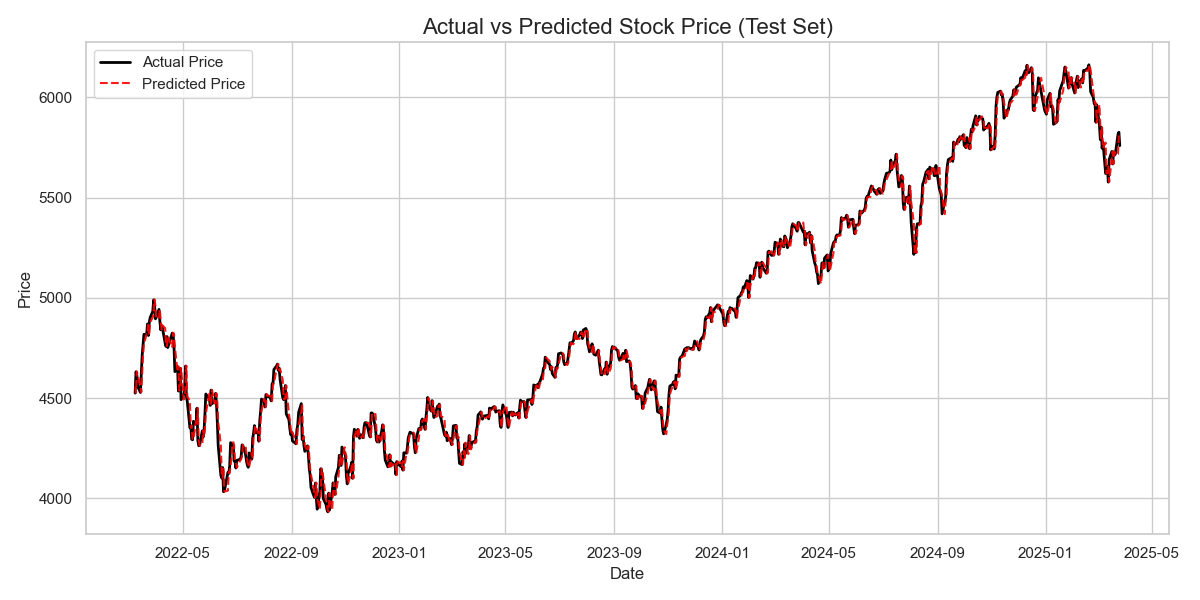
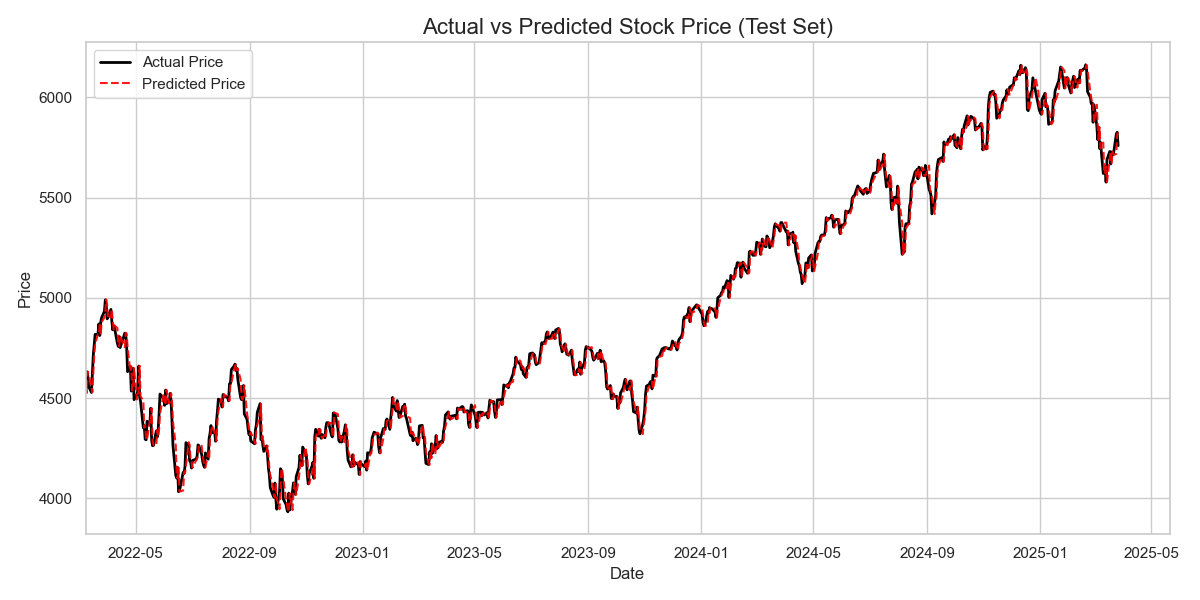
refactor: final commit

diff --git a/backend/eda.py b/backend/eda.py
@@ -8,16 +8,15 @@ from preprocessing import load_and_process_data
 def generate_eda_plots():
     print("Generating EDA Plots...")
     
-    # 1. Setup Directories
+   
     base_dir = os.path.dirname(os.path.abspath(__file__))
     plots_dir = os.path.join(base_dir, 'plots')
     models_dir = os.path.join(base_dir, 'models')
     os.makedirs(plots_dir, exist_ok=True)
     
-    # 2. Load Data
+   
     df = load_and_process_data()
     
-    # Load Test Results for Predicted vs Actual
     results_path = os.path.join(models_dir, 'test_results.csv')
     if os.path.exists(results_path):
         test_results = pd.read_csv(results_path)
@@ -25,10 +24,10 @@ def generate_eda_plots():
         print("Warning: test_results.csv not found. Skipping Predicted vs Actual plot.")
         test_results = None
 
-    # Set Style
+
     sns.set_theme(style="whitegrid")
     
-    # --- PLOT 1: Actual vs Predicted Price (The "Hero" Chart) ---
+    # PLOT 1: Actual vs Predicted Price 
     if test_results is not None:
         plt.figure(figsize=(12, 6))
         plt.plot(pd.to_datetime(test_results['Date']), test_results['Actual_Price'], label='Actual Price', color='black', linewidth=2)
@@ -36,14 +35,18 @@ def generate_eda_plots():
         plt.title('Actual vs Predicted Stock Price (Test Set)', fontsize=16)
         plt.xlabel('Date')
         plt.ylabel('Price')
+        
+        
+        plt.xlim(left=pd.to_datetime(test_results['Date']).min())
+        
         plt.legend()
         plt.tight_layout()
         plt.savefig(os.path.join(plots_dir, '1_Actual_vs_Predicted.png'))
         plt.close()
         print("Saved: 1_Actual_vs_Predicted.png")
 
-    # --- PLOT 2: Dual Axis - Price vs Data (Visualizing the Inverse Correlation) ---
-    # Downsample for readability if needed, but let's take the last 500 points
+    # PLOT 2: Dual Axis - Price vs Data (Visualizing the Inverse Correlation) 
+    
     subset = df.iloc[-500:]
     
     fig, ax1 = plt.subplots(figsize=(12, 6))
@@ -67,7 +70,7 @@ def generate_eda_plots():
     plt.close()
     print("Saved: 2_Price_vs_Data_DualAxis.png")
 
-    # --- PLOT 3: Scatter Plot - Data Level vs Price ---
+    # PLOT 3: Scatter Plot - Data Level vs Price 
     plt.figure(figsize=(10, 6))
     sns.scatterplot(x='Data', y='Price', data=df, alpha=0.5, color='purple')
     plt.title('Correlation: Data Level vs Stock Price', fontsize=16)
@@ -84,7 +87,7 @@ def generate_eda_plots():
     plt.close()
     print("Saved: 3_Scatter_Data_vs_Price.png")
 
-    # --- PLOT 4: Correlation Heatmap ---
+    # PLOT 4: Correlation Heatmap 
     plt.figure(figsize=(8, 6))
     corr_matrix = df[['Price', 'Data_Lag1', 'Data_Diff', 'Price_Diff']].corr()
     sns.heatmap(corr_matrix, annot=True, cmap='coolwarm', fmt=".2f", linewidths=.5)
@@ -94,10 +97,10 @@ def generate_eda_plots():
     plt.close()
     print("Saved: 4_Correlation_Heatmap.png")
 
-    # --- STATISTICS OUTPUT ---
+    # STATISTICS OUTPUT 
     print("\n--- Model Insights ---")
     
-    # Calculate Correlation
+
     corr = df['Price'].corr(df['Data_Lag1'])
     print(f"Correlation between Price and Data_Lag1: {corr:.4f}")
     if corr < -0.5:

diff --git a/backend/train_model.py b/backend/train_model.py
@@ -3,7 +3,7 @@ import numpy as np
 from sklearn.linear_model import LinearRegression
 from sklearn.preprocessing import StandardScaler
 from sklearn.metrics import mean_squared_error, r2_score
-import joblib
+
 import os
 from preprocessing import load_and_process_data
 
@@ -48,23 +48,55 @@ def train():
     
     print(f"Model Trained. MSE: {mse:.4f}, R2: {r2:.4f}, Directional Acc: {directional_accuracy:.2f}%")
     
-    # Save Model and Artifacts
+    # Save Evaluation Metrics
     base_dir = os.path.dirname(os.path.abspath(__file__))
     models_dir = os.path.join(base_dir, 'models')
     os.makedirs(models_dir, exist_ok=True)
     
-    joblib.dump(model, os.path.join(models_dir, 'linear_regression_model.joblib'))
-    joblib.dump(scaler, os.path.join(models_dir, 'scaler.joblib'))
-    
     import json
-    evaluation_metrics = {
+    
+    
+    insights = []
+    insights.append(f"Model explains {r2*100:.1f}% of the variance in stock prices.")
+    
+
+    lag_coef = model.coef_[0]
+    diff_coef = model.coef_[1]
+    
+    if abs(diff_coef) > abs(lag_coef):
+         insights.append("Day-to-day changes in data have a stronger impact than the raw value level.")
+    else:
+         insights.append("The raw level of the data is a stronger predictor than recent changes.")
+         
+    if diff_coef > 0:
+        insights.append("Positive changes in the data signal correlate with higher stock prices (positive correlation).")
+    else:
+        insights.append("Positive changes in the data signal tend to pull the stock price down (negative correlation).")
+        
+    metrics = {
         "mse": mse,
         "r2": r2,
         "directional_accuracy": directional_accuracy
     }
     
+    
+    coef_list = []
+    for feat, coef in zip(features, model.coef_):
+        item = {"Feature": feat, "Coefficient": coef}
+        if feat == 'Data_Lag1':
+            item['Explanation'] = "Absolute Level (Gravity Effect) - Higher rates typically push prices down"
+        elif feat == 'Data_Diff':
+            item['Explanation'] = "Rate of Change (Momentum) - Immediate changes add pressure"
+        coef_list.append(item)
+            
+    output = {
+        "metrics": metrics,
+        "insights": insights,
+        "coefficients": coef_list
+    }
+    
     with open(os.path.join(models_dir, 'evaluation.json'), 'w') as f:
-        json.dump(evaluation_metrics, f)
+        json.dump(output, f, indent=4)
 
     test_results = X_test.copy()
     test_results['Actual_Price'] = y_actual_price

diff --git a/backend/preprocessing.py b/backend/preprocessing.py
@@ -52,19 +52,4 @@ def load_and_process_data(data_path='../data/Data.csv', price_path='../data/Stoc
 
     return df
 
-if __name__ == "__main__":
-    # Test execution
-    try:
-        df = load_and_process_data()
-        print("Data processed successfully.")
-        print(f"Shape: {df.shape}")
-        print("\nFirst 5 rows:")
-        print(df.head())
-        print("\nLast 5 rows:")
-        print(df.tail())
-        
-        
-        df.to_csv("debug_processed_data.csv", index=False)
-        print("\nSaved debug_processed_data.csv")
-    except Exception as e:
-        print(f"Error during processing: {e}")
+

diff --git a/README.md b/README.md
@@ -1,9 +1,9 @@
 # Lagged Price Forecast
 
 ## Approach and Assumptions
-This project implements a Time-Series Forecasting model to predict daily `StockPrice`. The core assumption is that the stock price is primarily driven by the "Data" variable (e.g., Interest Rates or Bond Yields), specifically its previous day's value and immediate rate of change.
+This project implements a **Time-Series Forecasting** approach to predict daily `StockPrice` using a **Linear Regression** model. The core assumption is that the stock price is primarily driven by the "Data" variable, specifically its previous day's value and immediate rate of change.
 
-We assume a **non-stationary** relationship where the absolute level of `Data` shifts over time (regimes). To handle this, the model predicts the **Day-to-Day Price Change** (Price[t] - Price[t-1]) rather than the absolute price. The final forecasted price is reconstructed by adding the predicted change to the previous known price.
+We assume a **non-stationary** relationship where the absolute level of `Data` shifts over time. To handle this, the model predicts the **Day-to-Day Price Change** (Price[t] - Price[t-1]) rather than the absolute price. The final forecasted price is reconstructed by adding the predicted change to the previous known price.
 
 ## Data Preprocessing Steps
 The data pipeline (`backend/preprocessing.py`) performs the following operations:
@@ -16,7 +16,7 @@ The data pipeline (`backend/preprocessing.py`) performs the following operations
     *   Calculates `Price_Diff` (Price[t] - Price[t-1]) to create a stationary target variable for training.
 
 ## Model Selection and Evaluation
-A **Linear Regression** model was selected for its interpretability and ability to capture the inverse correlation between the independent variable and the asset price.
+A **Linear Regression** model was selected for its interpretability and ability to capture the inverse correlation between the independent variable and the stock price.
 
 *   **Training Split**: Time-based split (80% Train, 20% Test) to strictly prevent future data leakage.
 *   **Scaling**: Standard Scaler is applied to normalize features (z-score normalization).
@@ -28,22 +28,29 @@ A **Linear Regression** model was selected for its interpretability and ability 
 *   **Mean Squared Error (MSE)**: **2343.98** - Average squared deviation of the predicted price from actual.
 *   **Directional Accuracy**: **47.3%** - The model captures the magnitude/trend accurately but struggles with daily noise directionality.
 
+
+
 ## Key Insights and Conclusions
 Automated analysis of the model coefficients reveals:
 1.  **Primary Driver**: The **Absolute Level** of the "Data" variable is the strongest predictor.
-2.  **Negative Correlation**: Both the absolute level (`Coef: -0.35`) and the rate of change (`Coef: -0.18`) have a negative impact on price. This suggests that as the "Data" variable (e.g., Interest Rates) rises, the Stock Price falls.
+2.  **Negative Correlation**: Both the absolute level (`Coef: -0.35`) and the rate of change (`Coef: -0.18`) have a negative impact on the stock price. This suggests that as the "Data" variable rises, the Stock Price falls.
 3.  **Regime Handling**: By modeling price *differences*, the system successfully adapts to new execution regimes (e.g., 2024-2025) even when the underlying data values are significantly higher than the training period (2010-2023).
 
-## Usage
+## How to Run
 To replicate the analysis and generate visualizations:
 
 ```bash
-# Install dependencies
+# 1. Install dependencies
 pip install -r backend/requirements.txt
 
-# Train framework
+# 2. Train the Model (Generates evaluation.json and test_results.csv)
 python backend/train_model.py
 
-# Generate EDA Plots (saved to backend/plots/)
+# 3. Generate EDA Plots (Saved to backend/plots/)
 python backend/eda.py
 ```
+
+---
+**Note**: Visualizations and detailed insights generated by the EDA script are stored in the `backend/plots/` directory.
+
+
